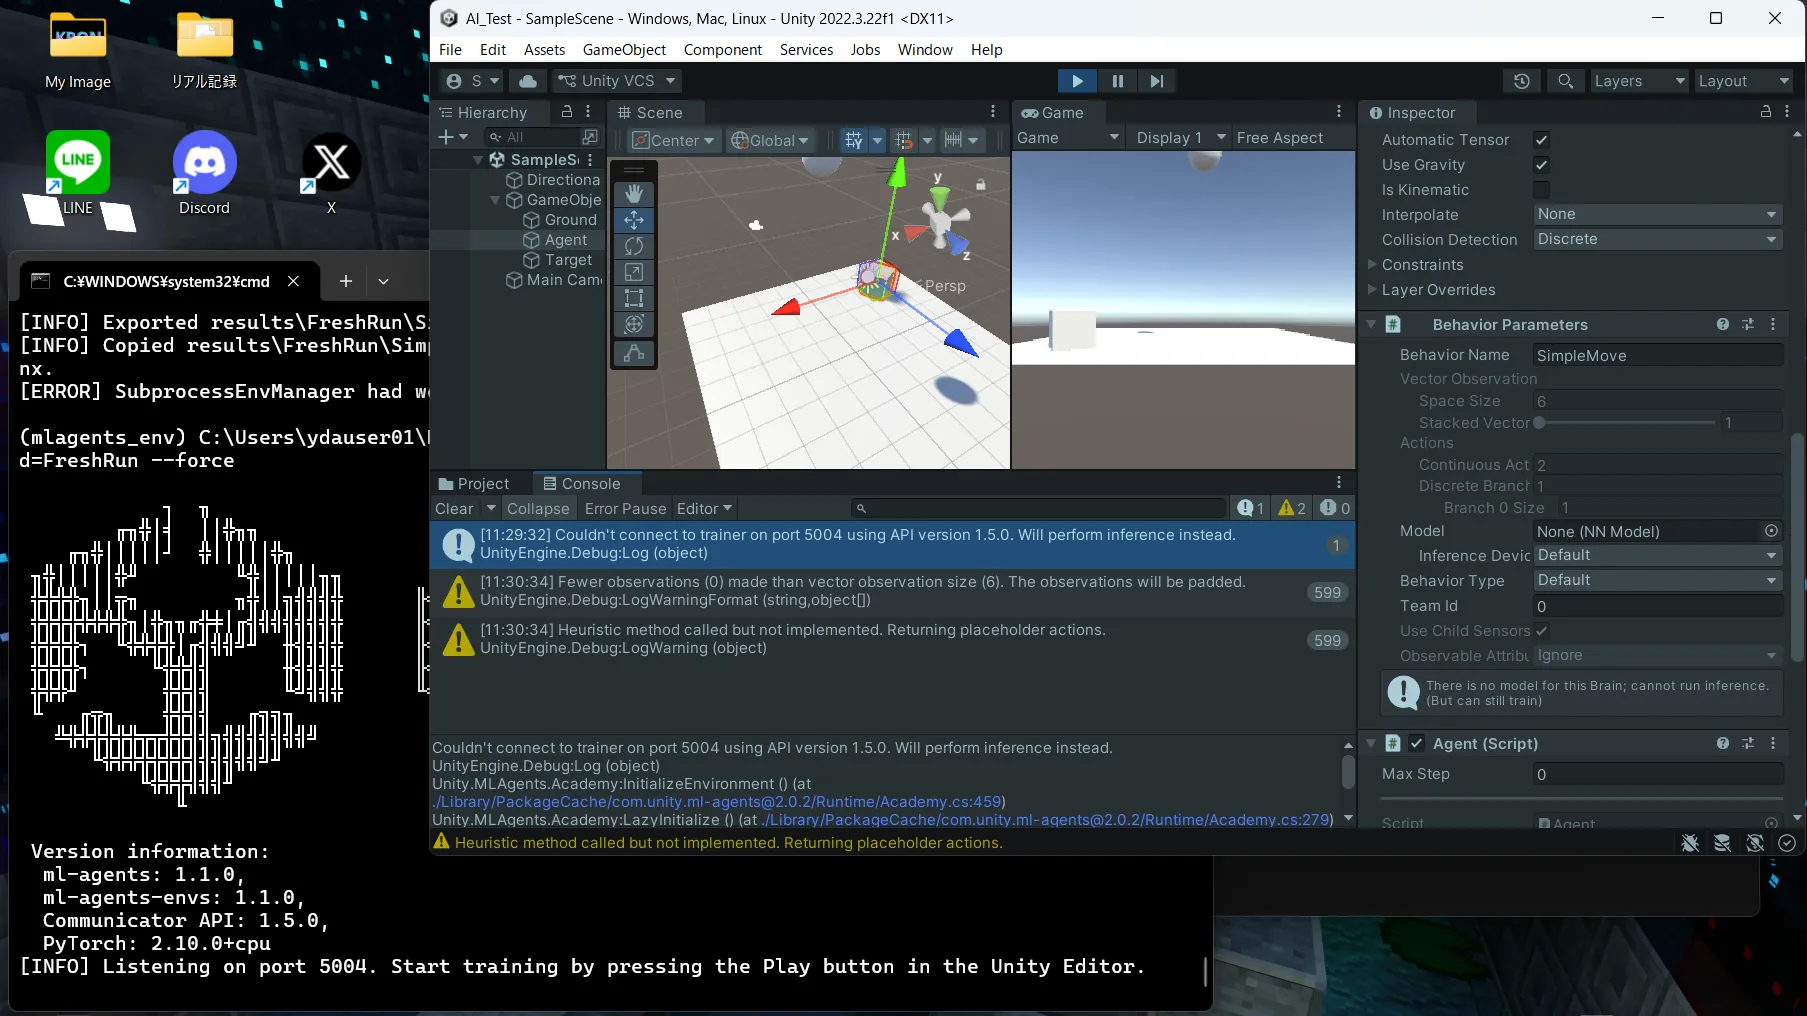
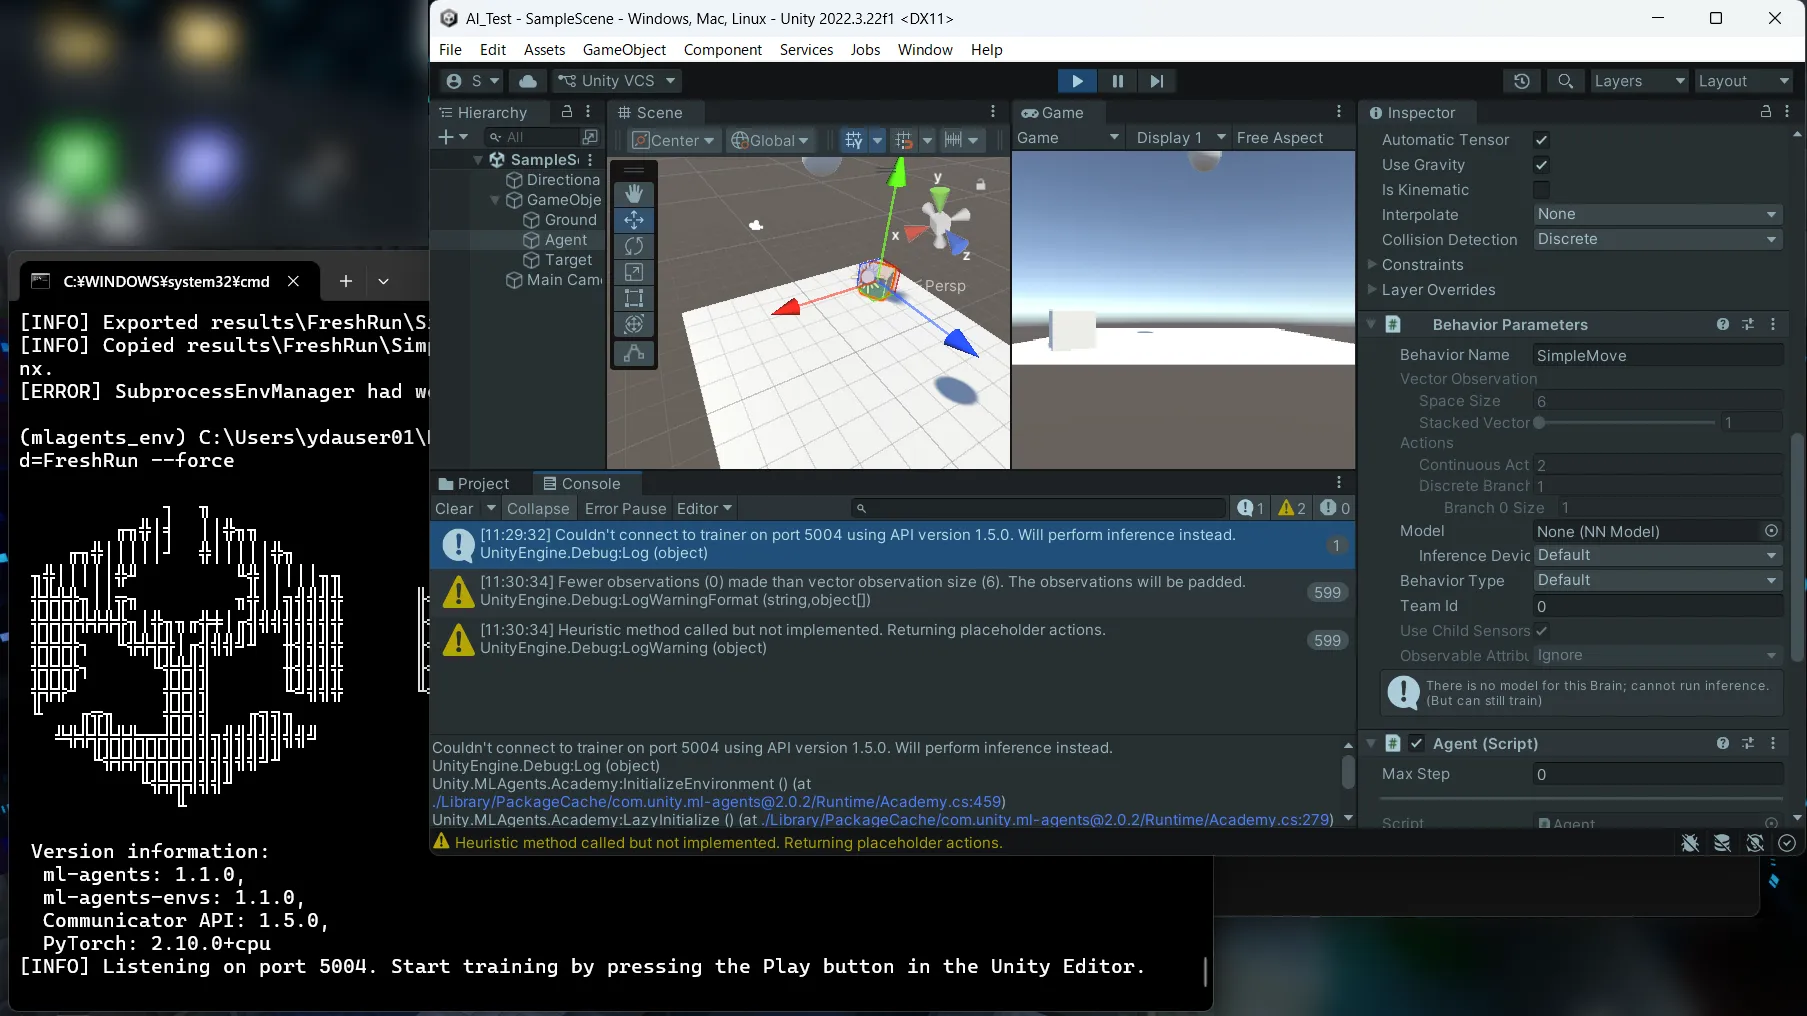
日付更新し忘れ、AI学習サムネに写ってたアプリをぼかしで隠した

diff --git a/pages/works/reflect_line.html b/pages/works/reflect_line.html
@@ -756,7 +756,7 @@
   <!-- フッター -->
   <footer>
     <small>
-      最終更新日: 2026/09/02<br>
+      最終更新日: 2026/10/31<br>
       随時更新中<br>
       <br>
       <!-- ポートフォリオサイト表記 -->

diff --git a/index.html b/index.html
@@ -540,7 +540,7 @@
   <!-- フッター -->
   <footer>
     <small>
-      最終更新日: 2026/10/25<br>
+      最終更新日: 2026/10/31<br>
       随時更新中<br>
       <br>
       ©2025-2026 Kurosawa Reo Portfolio
